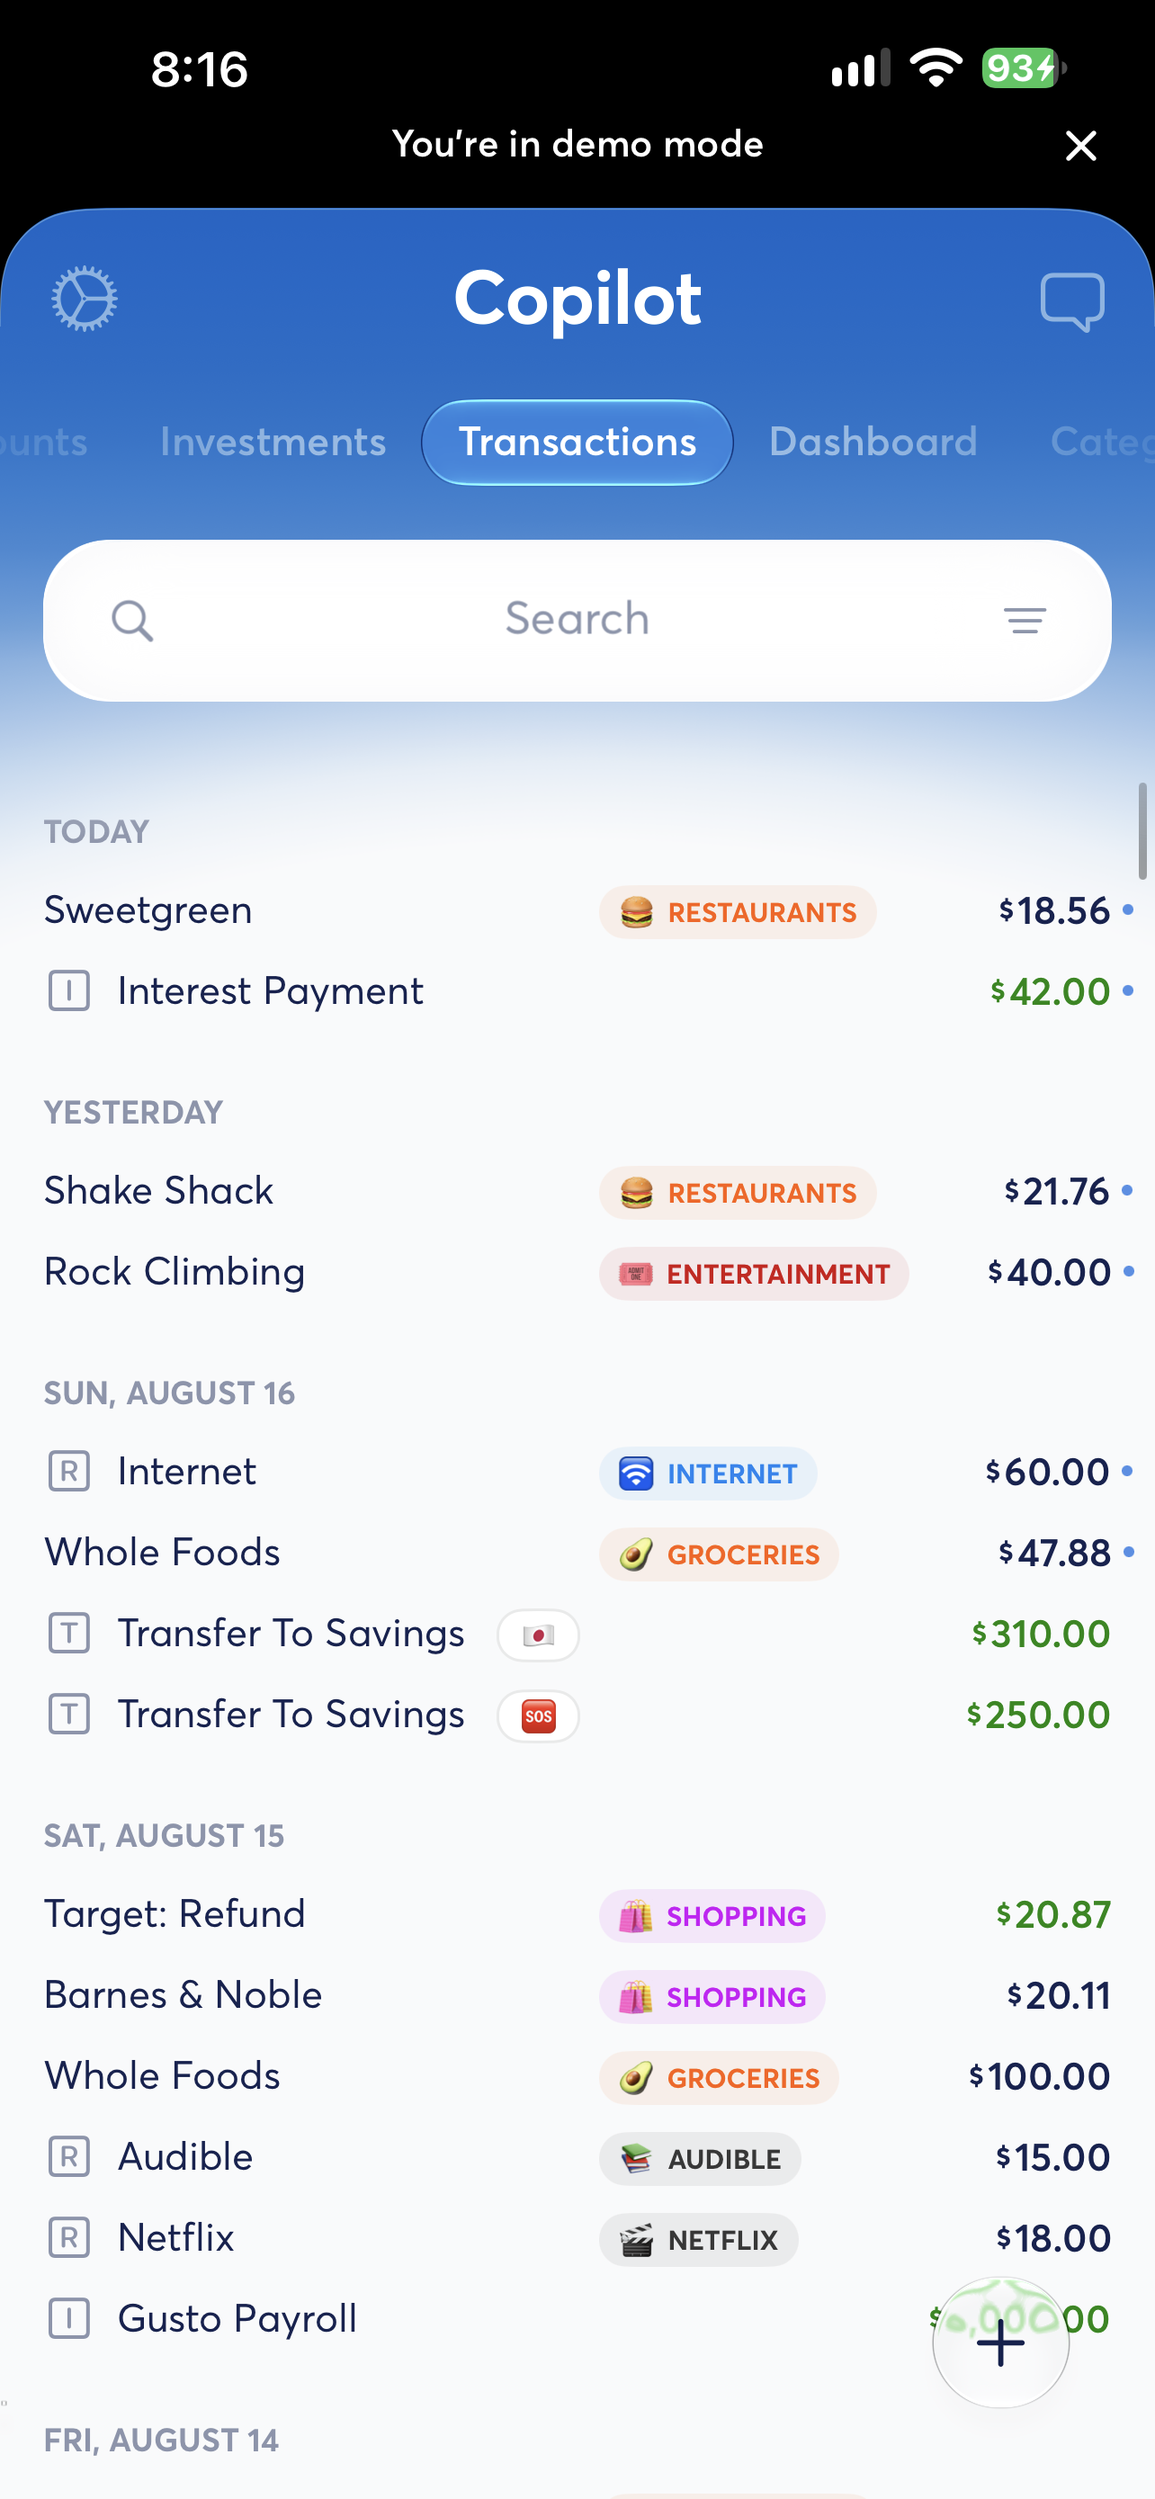
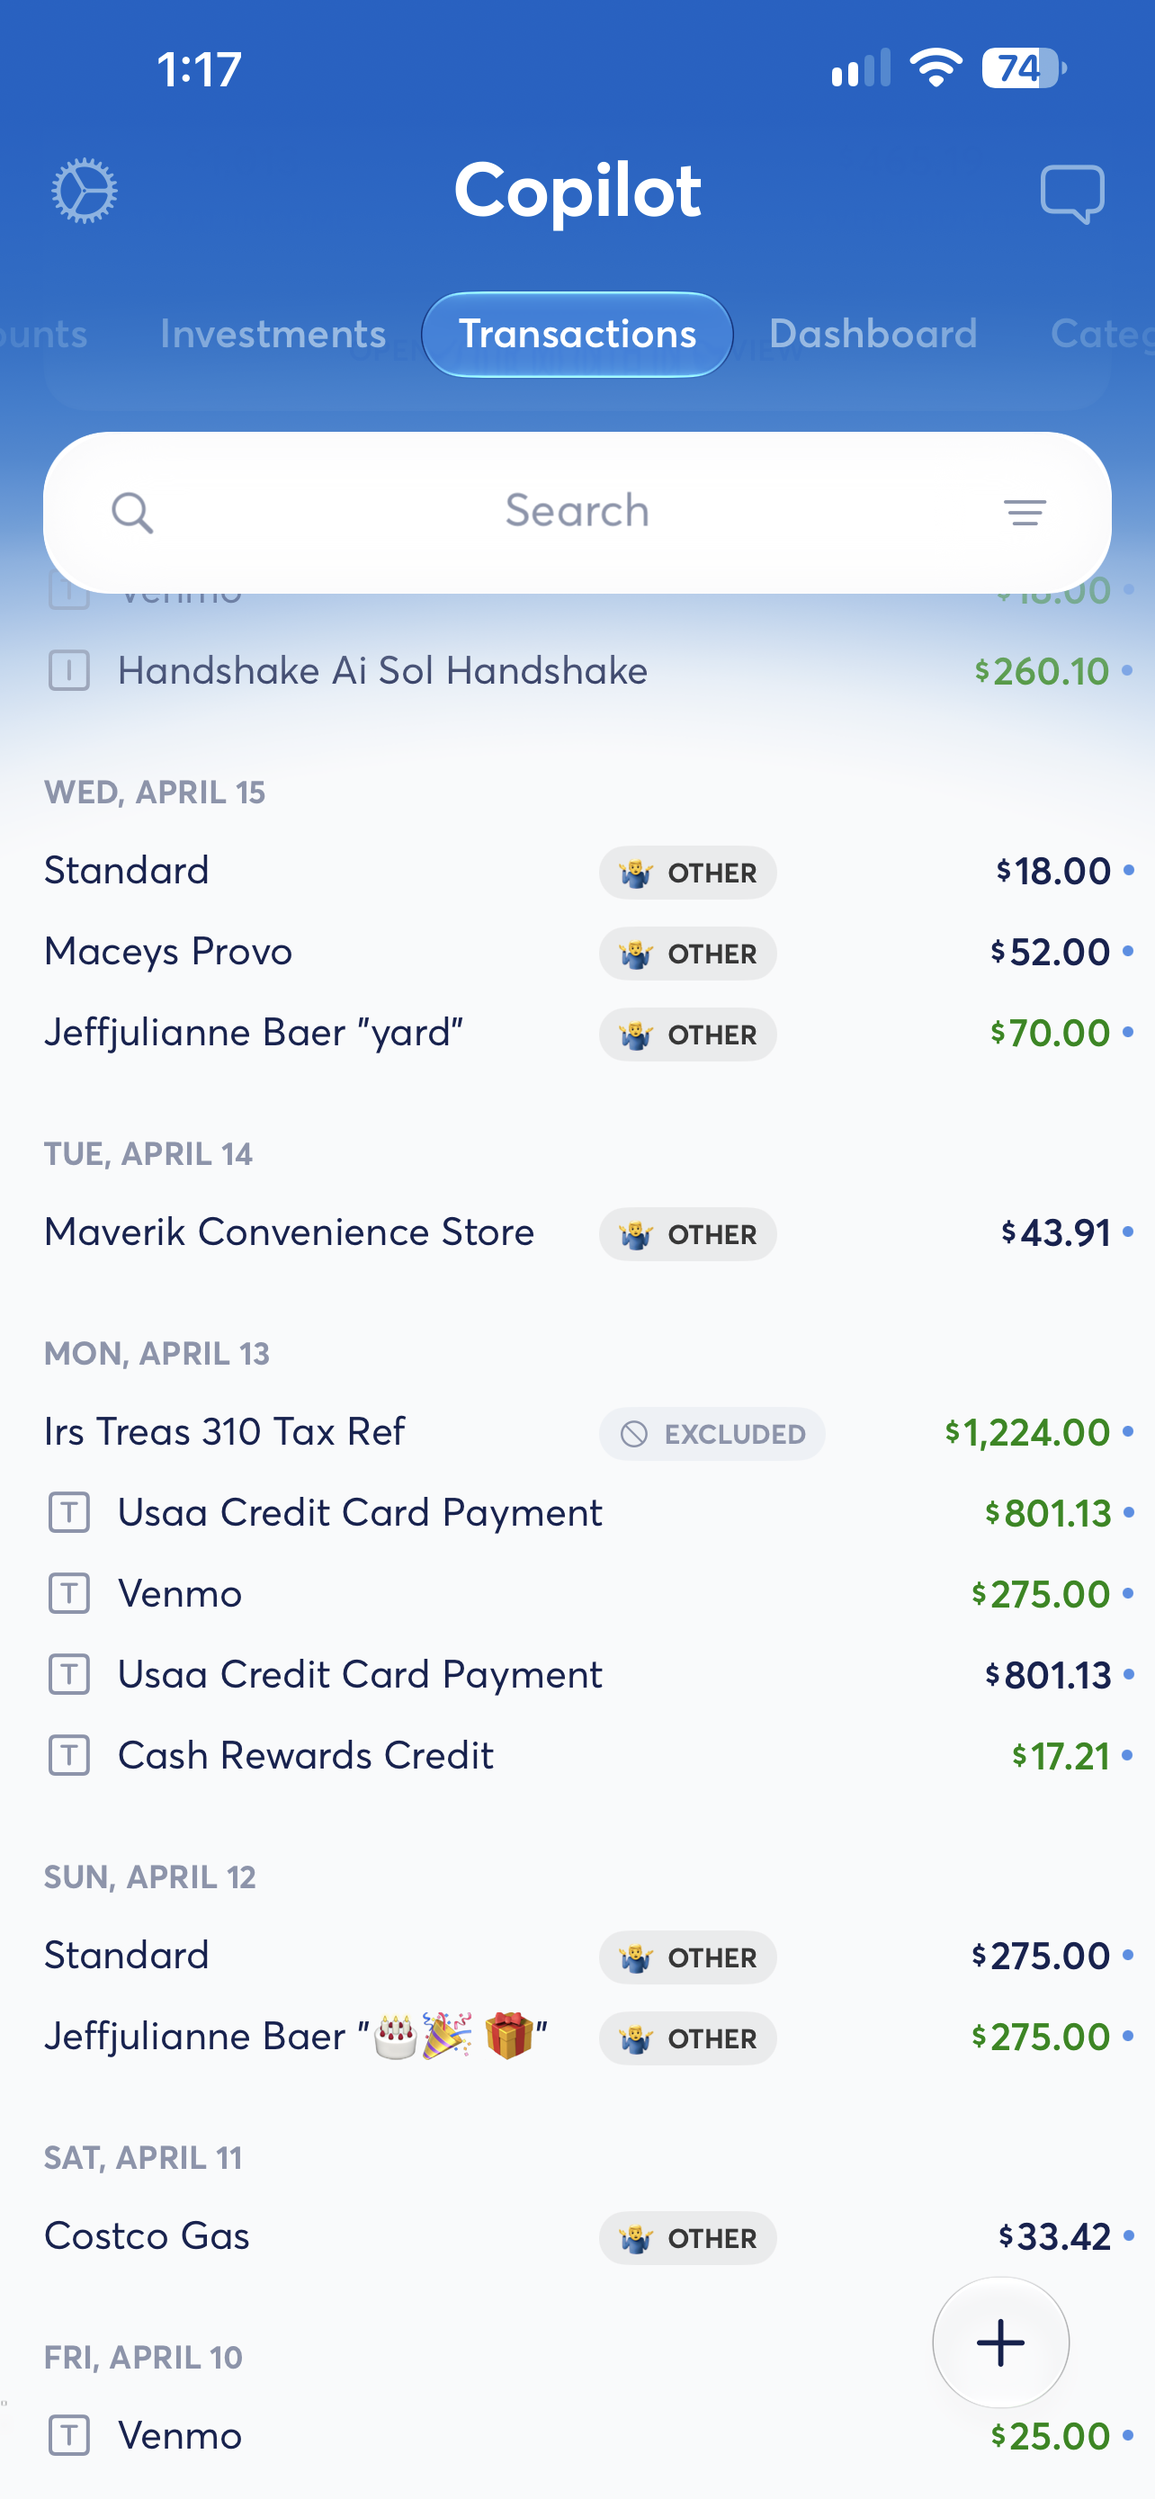
fix mobile route transition blank frames

diff --git a/features/transactions/TransactionsWorkspace.module.css b/features/transactions/TransactionsWorkspace.module.css
@@ -489,13 +489,14 @@
   }
   .mobileSearch input { min-width: 0; border: 0; outline: 0; color: var(--app-text-strong); background: transparent; font: inherit; font-size: 18px; text-align: center; }
   .mobileSearch input::placeholder { color: #9ca7ba; opacity: 1; }
-  .mobileSearch > button { display: grid; width: 34px; height: 34px; padding: 0; place-items: center; border: 0; color: #8d9ab2; background: transparent; }
-  .mobileSearch > button img { width: 23px; height: 23px; opacity: .56; object-fit: contain; }
+  .mobileSearch > button { display: grid; width: 34px; height: 34px; padding: 0; place-items: center; overflow: visible; border: 0 !important; color: #8d9ab2; background: transparent !important; box-shadow: none !important; }
+  .mobileSearch > button::before { display: none !important; }
+  .mobileSearch > button img { width: 23px; height: 23px; opacity: .56; object-fit: contain; mix-blend-mode: multiply; }
   .mobileFilterMenu { position: absolute; top: calc(100% + 10px); right: 0; z-index: 20; display: grid; width: 190px; overflow: hidden; padding: 6px; border: 1px solid rgb(255 255 255 / 84%); border-radius: 18px; background: rgb(255 255 255 / 96%); box-shadow: 0 18px 44px rgb(21 55 94 / 18%); backdrop-filter: blur(24px) saturate(145%); }
   .mobileFilterMenu button { display: flex; width: 100%; min-height: 44px; align-items: center; justify-content: space-between; gap: 12px; padding: 0 12px; border: 0; border-radius: 12px; color: var(--app-text-strong); background: transparent; font: inherit; font-size: 13px; font-weight: 650; text-align: left; }
   .mobileFilterMenu button[aria-checked="true"] { color: var(--app-accent); background: var(--app-accent-soft); }
   .tabs { display: none !important; }
-  .mobileLedger { padding: 0 22px 96px; }
+  .mobileLedger { margin: 0 14px; padding: 18px 16px 96px; border: 1px solid rgb(255 255 255 / 78%); border-radius: 28px; background: rgb(255 255 255 / 88%); box-shadow: 0 18px 42px rgb(38 112 176 / 8%); backdrop-filter: blur(18px) saturate(130%); }
   .mobileDateGroup + .mobileDateGroup { margin-top: 24px; }
   .mobileDateGroup h3 { margin: 0 0 10px; color: #8d99b0; font-size: 12px; font-weight: 800; letter-spacing: .035em; text-transform: uppercase; }
   .mobileTransaction {
@@ -504,14 +505,14 @@
     grid-template-columns: minmax(0, 1fr) auto minmax(72px, auto);
     align-items: center;
     gap: 8px;
-    padding: 7px 0;
+    padding: 9px 0;
     border: 0;
     color: var(--app-text-strong);
     background: transparent;
     text-align: left;
   }
   .mobileTransaction > strong { min-width: 0; overflow: hidden; font-size: 15px; font-weight: 560; text-overflow: ellipsis; white-space: nowrap; }
-  .mobileTransaction > span { max-width: 100px; overflow: hidden; padding: 4px 9px; border-radius: 999px; color: #5f6879; background: #eef0f3; font-size: 9px; font-weight: 800; text-overflow: ellipsis; text-transform: uppercase; white-space: nowrap; }
+  .mobileTransaction > span { max-width: 100px; overflow: hidden; padding: 4px 9px; border-radius: 999px; color: #52627d; background: color-mix(in srgb, var(--app-accent-soft) 70%, white); font-size: 9px; font-weight: 800; text-overflow: ellipsis; text-transform: uppercase; white-space: nowrap; }
   .mobileTransaction > b { justify-self: end; font-size: 14px; font-variant-numeric: tabular-nums; }
   .mobileActions { position: fixed; right: 18px; bottom: max(18px, env(safe-area-inset-bottom)); z-index: 30; display: block; margin: 0; padding: 0; background: transparent; box-shadow: none; }
   .mobileActions button { width: 58px; height: 58px; min-height: 58px; overflow: hidden; padding: 0; border: 1px solid #dfe3e8; border-radius: 50%; color: transparent; background: rgb(255 255 255 / 94%); box-shadow: 0 10px 28px rgb(30 58 96 / 16%); backdrop-filter: blur(20px); }

diff --git a/components/demo/DemoTransactions.module.css b/components/demo/DemoTransactions.module.css
@@ -97,7 +97,7 @@
 
 @media(max-width:47.999rem){
  .page{overflow:visible}.mobileSearch{position:relative;height:64px;margin:-8px 20px 30px;padding:0 18px;border-color:rgb(255 255 255 / 80%);border-radius:26px;background:rgb(255 255 255 / 94%);box-shadow:0 18px 36px rgb(38 112 176 / 12%);font-size:18px;backdrop-filter:blur(22px) saturate(145%)}
- .mobileSearch>button{display:grid;width:34px;height:34px;padding:0;place-items:center;border:0;background:transparent}.mobileSearch>button img{width:23px;height:23px;opacity:.56;object-fit:contain}.mobileFilterMenu{position:absolute;top:calc(100% + 10px);right:0;z-index:20;display:grid;width:190px;padding:6px;border:1px solid rgb(255 255 255 / 84%);border-radius:18px;background:rgb(255 255 255 / 96%);box-shadow:0 18px 44px rgb(21 55 94 / 18%);backdrop-filter:blur(24px) saturate(145%)}.mobileFilterMenu button{display:flex;min-height:44px;align-items:center;justify-content:space-between;padding:0 12px;border:0;border-radius:12px;color:var(--app-text-strong);background:transparent;font:inherit;font-size:13px;font-weight:650}.mobileFilterMenu button[aria-pressed="true"]{color:var(--app-accent);background:var(--app-accent-soft)}
+ .mobileSearch>button{display:grid;width:34px;height:34px;padding:0;place-items:center;border:0!important;background:transparent!important;box-shadow:none!important;overflow:visible}.mobileSearch>button::before{display:none!important}.mobileSearch>button img{width:23px;height:23px;opacity:.56;object-fit:contain;mix-blend-mode:multiply}.mobileFilterMenu{position:absolute;top:calc(100% + 10px);right:0;z-index:20;display:grid;width:190px;padding:6px;border:1px solid rgb(255 255 255 / 84%);border-radius:18px;background:rgb(255 255 255 / 96%);box-shadow:0 18px 44px rgb(21 55 94 / 18%);backdrop-filter:blur(24px) saturate(145%)}.mobileFilterMenu button{display:flex;min-height:44px;align-items:center;justify-content:space-between;padding:0 12px;border:0;border-radius:12px;color:var(--app-text-strong);background:transparent;font:inherit;font-size:13px;font-weight:650}.mobileFilterMenu button[aria-pressed="true"]{color:var(--app-accent);background:var(--app-accent-soft)}
  .table{display:none!important}.mobileLedger{display:block;padding:0 22px 92px}.mobileLedger section+section{margin-top:24px}.mobileLedger h3{margin:0 0 10px;color:#8d99b0;font-size:12px;font-weight:800;letter-spacing:.035em;text-transform:uppercase}
  .mobileTransaction{display:grid;min-height:50px;grid-template-columns:minmax(0,1fr) auto minmax(72px,auto);align-items:center;gap:8px;padding:7px 0;color:var(--app-text-strong)}
  .mobileTransaction>strong{overflow:hidden;font-size:15px;font-weight:560;text-overflow:ellipsis;white-space:nowrap}.mobileTransaction>span{max-width:100px;overflow:hidden;padding:4px 9px;border-radius:999px;color:#5f6879;background:#eef0f3;font-size:9px;font-weight:800;text-overflow:ellipsis;text-transform:uppercase;white-space:nowrap}.mobileTransaction>b{justify-self:end;font-size:14px;font-variant-numeric:tabular-nums}

diff --git a/components/layout/mobileRouteTransition.ts b/components/layout/mobileRouteTransition.ts
@@ -1,0 +1,79 @@
+type TransitionDocument = Document & {
+  startViewTransition: (callback: () => Promise<void> | void) => {
+    finished: Promise<void>;
+  };
+};
+
+type MobileRouter = {
+  prefetch: (href: string) => void;
+  push: (href: string) => void;
+};
+
+const MOBILE_QUERY = "(max-width: 47.999rem)";
+const READY_TIMEOUT_MS = 12_000;
+
+function routeIsReady(href: string) {
+  const destination = new URL(href, window.location.href);
+  return (
+    window.location.pathname === destination.pathname &&
+    !document.querySelector("[data-route-loading]")
+  );
+}
+
+function waitForRouteReady(href: string) {
+  return new Promise<void>((resolve) => {
+    let settled = false;
+    let readinessTimer = 0;
+
+    const finish = () => {
+      if (settled) return;
+      settled = true;
+      observer.disconnect();
+      window.clearTimeout(timeout);
+      window.clearTimeout(readinessTimer);
+      resolve();
+    };
+
+    const check = () => {
+      if (!routeIsReady(href)) return;
+      // View Transition update callbacks pause painting, so use a task instead
+      // of requestAnimationFrame to let React commit the completed route.
+      readinessTimer = window.setTimeout(() => {
+        if (routeIsReady(href)) finish();
+      }, 0);
+    };
+
+    const observer = new MutationObserver(check);
+    observer.observe(document.body, { childList: true, subtree: true });
+    const timeout = window.setTimeout(finish, READY_TIMEOUT_MS);
+    check();
+  });
+}
+
+export function navigateMobileRoute(
+  router: MobileRouter,
+  href: string,
+  direction: "left" | "right",
+  reduceMotion: boolean,
+) {
+  router.prefetch(href);
+
+  if (
+    reduceMotion ||
+    !window.matchMedia(MOBILE_QUERY).matches ||
+    !("startViewTransition" in document)
+  ) {
+    router.push(href);
+    return;
+  }
+
+  document.documentElement.dataset.swipeDirection = direction;
+  const transition = (document as TransitionDocument).startViewTransition(async () => {
+    router.push(href);
+    await waitForRouteReady(href);
+  });
+
+  void transition.finished.finally(() => {
+    delete document.documentElement.dataset.swipeDirection;
+  });
+}

diff --git a/components/demo/DemoShell.tsx b/components/demo/DemoShell.tsx
@@ -24,6 +24,7 @@ import { useEffect, useRef, useState } from "react";
 import styles from "./DemoShell.module.css";
 import { LiquidGLRuntime } from "@/components/shared/LiquidGLRuntime";
 import { useMobilePageSwipe } from "@/components/layout/useMobilePageSwipe";
+import { navigateMobileRoute } from "@/components/layout/mobileRouteTransition";
 
 const links = [
   ["/demo", "Dashboard", IconLayoutDashboard],
@@ -156,7 +157,7 @@ export function DemoShell({ children }: { children: React.ReactNode }) {
           <Link
             key={href}
             href={href}
-            prefetch={false}
+            prefetch={pathname === href ? false : null}
             className={pathname === href ? styles.active : undefined}
             aria-current={pathname === href ? "page" : undefined}
             onClick={(event) => {
@@ -164,11 +165,8 @@ export function DemoShell({ children }: { children: React.ReactNode }) {
               event.preventDefault();
               const currentIndex = mobileLinks.findIndex(([route]) => route === pathname);
               const nextIndex = mobileLinks.findIndex(([route]) => route === href);
-              document.documentElement.dataset.swipeDirection = nextIndex < currentIndex ? "right" : "left";
-              const navigate = () => router.push(href);
               const reduceMotion = window.matchMedia("(prefers-reduced-motion: reduce)").matches;
-              if (!reduceMotion && "startViewTransition" in document) (document as Document & { startViewTransition: (callback: () => void) => void }).startViewTransition(navigate); else navigate();
-              window.setTimeout(() => delete document.documentElement.dataset.swipeDirection, 280);
+              navigateMobileRoute(router, href, nextIndex < currentIndex ? "right" : "left", reduceMotion);
             }}
           >
             <Icon size={19} aria-hidden="true" />

diff --git a/components/layout/MobileNav.tsx b/components/layout/MobileNav.tsx
@@ -6,6 +6,7 @@ import { useEffect, useRef } from "react";
 
 import { mobileSectionNavigation } from "./navigation";
 import styles from "./AppShell.module.css";
+import { navigateMobileRoute } from "./mobileRouteTransition";
 
 type MobileNavProps = {
   pathname: string;
@@ -44,7 +45,7 @@ export function MobileNav({ pathname }: MobileNavProps) {
             <Link
               className={`${styles.mobileLink} ${isActive ? styles.mobileLinkActive : ""}`}
               href={href}
-              prefetch={false}
+              prefetch={isActive ? false : null}
               aria-current={isActive ? "page" : undefined}
               key={href}
               onPointerDown={() => router.prefetch(href)}
@@ -53,11 +54,8 @@ export function MobileNav({ pathname }: MobileNavProps) {
                 event.preventDefault();
                 const currentIndex = links.findIndex((item) => item.href === pathname);
                 const nextIndex = links.findIndex((item) => item.href === href);
-                document.documentElement.dataset.swipeDirection = nextIndex < currentIndex ? "right" : "left";
-                const navigate = () => router.push(href);
                 const reduceMotion = window.matchMedia("(prefers-reduced-motion: reduce)").matches;
-                if (!reduceMotion && "startViewTransition" in document) (document as Document & { startViewTransition: (callback: () => void) => void }).startViewTransition(navigate); else navigate();
-                window.setTimeout(() => delete document.documentElement.dataset.swipeDirection, 280);
+                navigateMobileRoute(router, href, nextIndex < currentIndex ? "right" : "left", reduceMotion);
               }}
             >
               <Icon size={18} stroke={1.9} aria-hidden="true" />

diff --git a/app/(app)/loading.tsx b/app/(app)/loading.tsx
@@ -1,3 +1,3 @@
 export default function AppLoading() {
-  return <div aria-label="Loading household data" aria-busy="true" style={{ display: "grid", gap: 18 }}><div style={{ width: "42%", height: 36, borderRadius: 10, background: "var(--app-hover)" }}/><div style={{ height: 220, borderRadius: 16, background: "var(--app-surface)", border: "1px solid var(--app-border)" }}/><div style={{ display: "grid", gridTemplateColumns: "repeat(auto-fit, minmax(240px, 1fr))", gap: 16 }}>{[1,2,3].map((item)=><div key={item} style={{ height: 180, borderRadius: 16, background: "var(--app-surface)", border: "1px solid var(--app-border)" }}/>)}</div></div>;
+  return <div data-route-loading aria-label="Loading household data" aria-busy="true" style={{ display: "grid", gap: 18 }}><div style={{ width: "42%", height: 36, borderRadius: 10, background: "var(--app-hover)" }}/><div style={{ height: 220, borderRadius: 16, background: "var(--app-surface)", border: "1px solid var(--app-border)" }}/><div style={{ display: "grid", gridTemplateColumns: "repeat(auto-fit, minmax(240px, 1fr))", gap: 16 }}>{[1,2,3].map((item)=><div key={item} style={{ height: 180, borderRadius: 16, background: "var(--app-surface)", border: "1px solid var(--app-border)" }}/>)}</div></div>;
 }

diff --git a/components/layout/AppShell.module.css b/components/layout/AppShell.module.css
@@ -550,7 +550,7 @@
 }
 
 /* Refracted Vault shell */
-.shell { background: transparent; }
+.shell { background: var(--app-background); }
 
 .sidebar {
   width: 264px;
@@ -706,3 +706,4 @@
 @keyframes mobile-page-old-right{to{transform:translateX(100%)}}@keyframes mobile-page-new-right{from{transform:translateX(-100%)}}:root[data-swipe-direction="right"]::view-transition-old(mobile-page){animation-name:mobile-page-old-right}:root[data-swipe-direction="right"]::view-transition-new(mobile-page){animation-name:mobile-page-new-right}::view-transition-group(active-mobile-tab){animation-duration:250ms;animation-timing-function:cubic-bezier(.77,0,.175,1)}::view-transition-old(active-mobile-tab),::view-transition-new(active-mobile-tab){mix-blend-mode:normal}
 @media(prefers-reduced-motion:reduce){::view-transition-old(mobile-page),::view-transition-new(mobile-page),::view-transition-group(active-mobile-tab){animation:none!important}.swipeLeft,.swipeRight{filter:none;opacity:1;transition:none}}
 ::view-transition { pointer-events: none; }
+::view-transition-group(root),::view-transition-group(mobile-page){background:var(--app-background)}

diff --git a/components/layout/useMobilePageSwipe.ts b/components/layout/useMobilePageSwipe.ts
@@ -4,6 +4,8 @@ import { animate, useMotionTemplate, useMotionValue, useReducedMotion } from "mo
 import { useRouter } from "next/navigation";
 import { useCallback, useEffect, useRef, useState } from "react";
 
+import { navigateMobileRoute } from "./mobileRouteTransition";
+
 const routeOrder = [
   "/cash-flow",
   "/accounts",
@@ -92,19 +94,12 @@ export function useMobilePageSwipe(pathname: string, demo = false) {
     router.prefetch(next);
     finishGesture();
     dragX.set(0);
-    document.documentElement.dataset.swipeDirection = nextDirection;
     setDirection(nextDirection);
 
-    const push = () => router.push(next);
-    if (!reduceMotion && "startViewTransition" in document) {
-      (document as Document & { startViewTransition: (callback: () => void) => void }).startViewTransition(push);
-    } else {
-      push();
-    }
+    navigateMobileRoute(router, next, nextDirection, Boolean(reduceMotion));
 
     window.setTimeout(() => {
       setDirection(null);
-      delete document.documentElement.dataset.swipeDirection;
     }, 220);
   }
 

diff --git a/app/globals.css b/app/globals.css
@@ -455,6 +455,7 @@ body {
   margin: 0;
   padding: 0;
   overflow-x: hidden;
+  background: var(--app-background);
 }
 body {
   color: var(--app-text-strong);
